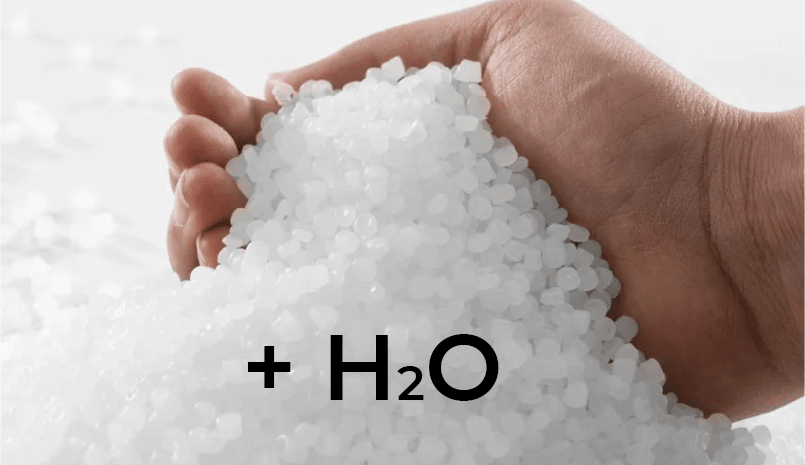
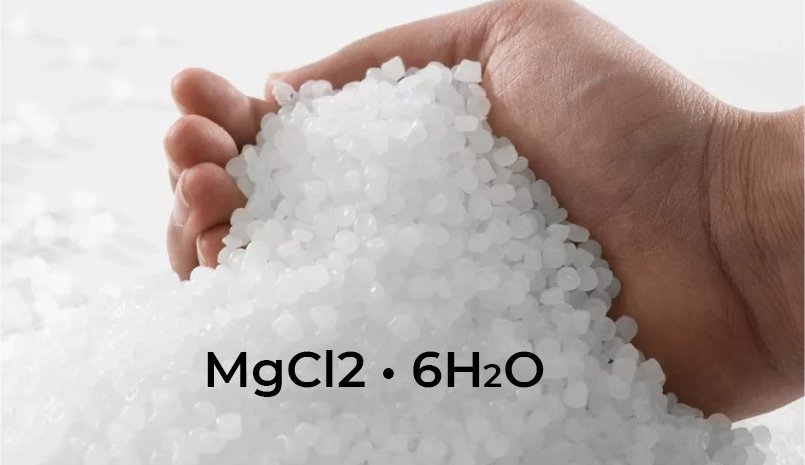
new image

Changed region(s): [[0.2484, 0.6925, 0.6832, 0.8731]]

diff --git a/krigolam.html b/krigolam.html
@@ -69,7 +69,7 @@
                 <h3 class="heading-blue">Криголам</h3>
                 <p class="body">Надзвичайно ефективний засіб для боротьби з ожеледицею та обмерзанням!</p>
                 <br>
-                <p class="body">Криголам – це інноваційний продукт, який забезпечує швидке та безпечне очищення тротуарів, доріг та інших поверхонь від льоду та снігу навіть за найнижчих температур (до -35°C).  Ми є Українським виробником та  прямим  власником видобутку Новоподільського Родовища  -одже контролюємо весь процес виробництва та забезпечуємо сталу якість продукту</p>
+                <p class="body">Криголам – це інноваційний продукт, який забезпечує швидке та безпечне очищення тротуарів, доріг та інших поверхонь від льоду та снігу навіть за найнижчих температур (до -35°C). Ми є Українським виробником та прямим  власником видобутку Новоподільського Родовища - одже контролюємо весь процес виробництва та забезпечуємо сталу якість продукту</p>
                 <br>
                 <p class="body"> <span class="heading-blue">Cклад: </span> Основною діючою речовиною є водний хлорид магнію MgCl2 * 6H2O.</p>
             </div>

diff --git a/index.html b/index.html
@@ -125,7 +125,7 @@
               <h3 class="subheading">Протиожеледний реагент</h3>
               <p class="body">Криголам – це універсальний засіб на основі природного мінералу бішофіту. Він ефективно вирішує проблему льоду та ожеледиці.
               </p>
-              <p class="body">Як це працює: криголам, потрапляючи на лід, розплавляє його завдяки хімічній реакції. Він діє швидше за звичайну сіль і ефективний навіть при дуже низьких температурах.
+              <p class="body">Як це працює: речовина, потрапляючи на лід, розплавляє його завдяки хімічній реакції. Він діє швидше за звичайну сіль і ефективний навіть при дуже низьких температурах.
               </p>
               <a href="krigolam.html" class="button">Детальніше</a>
             </div>
